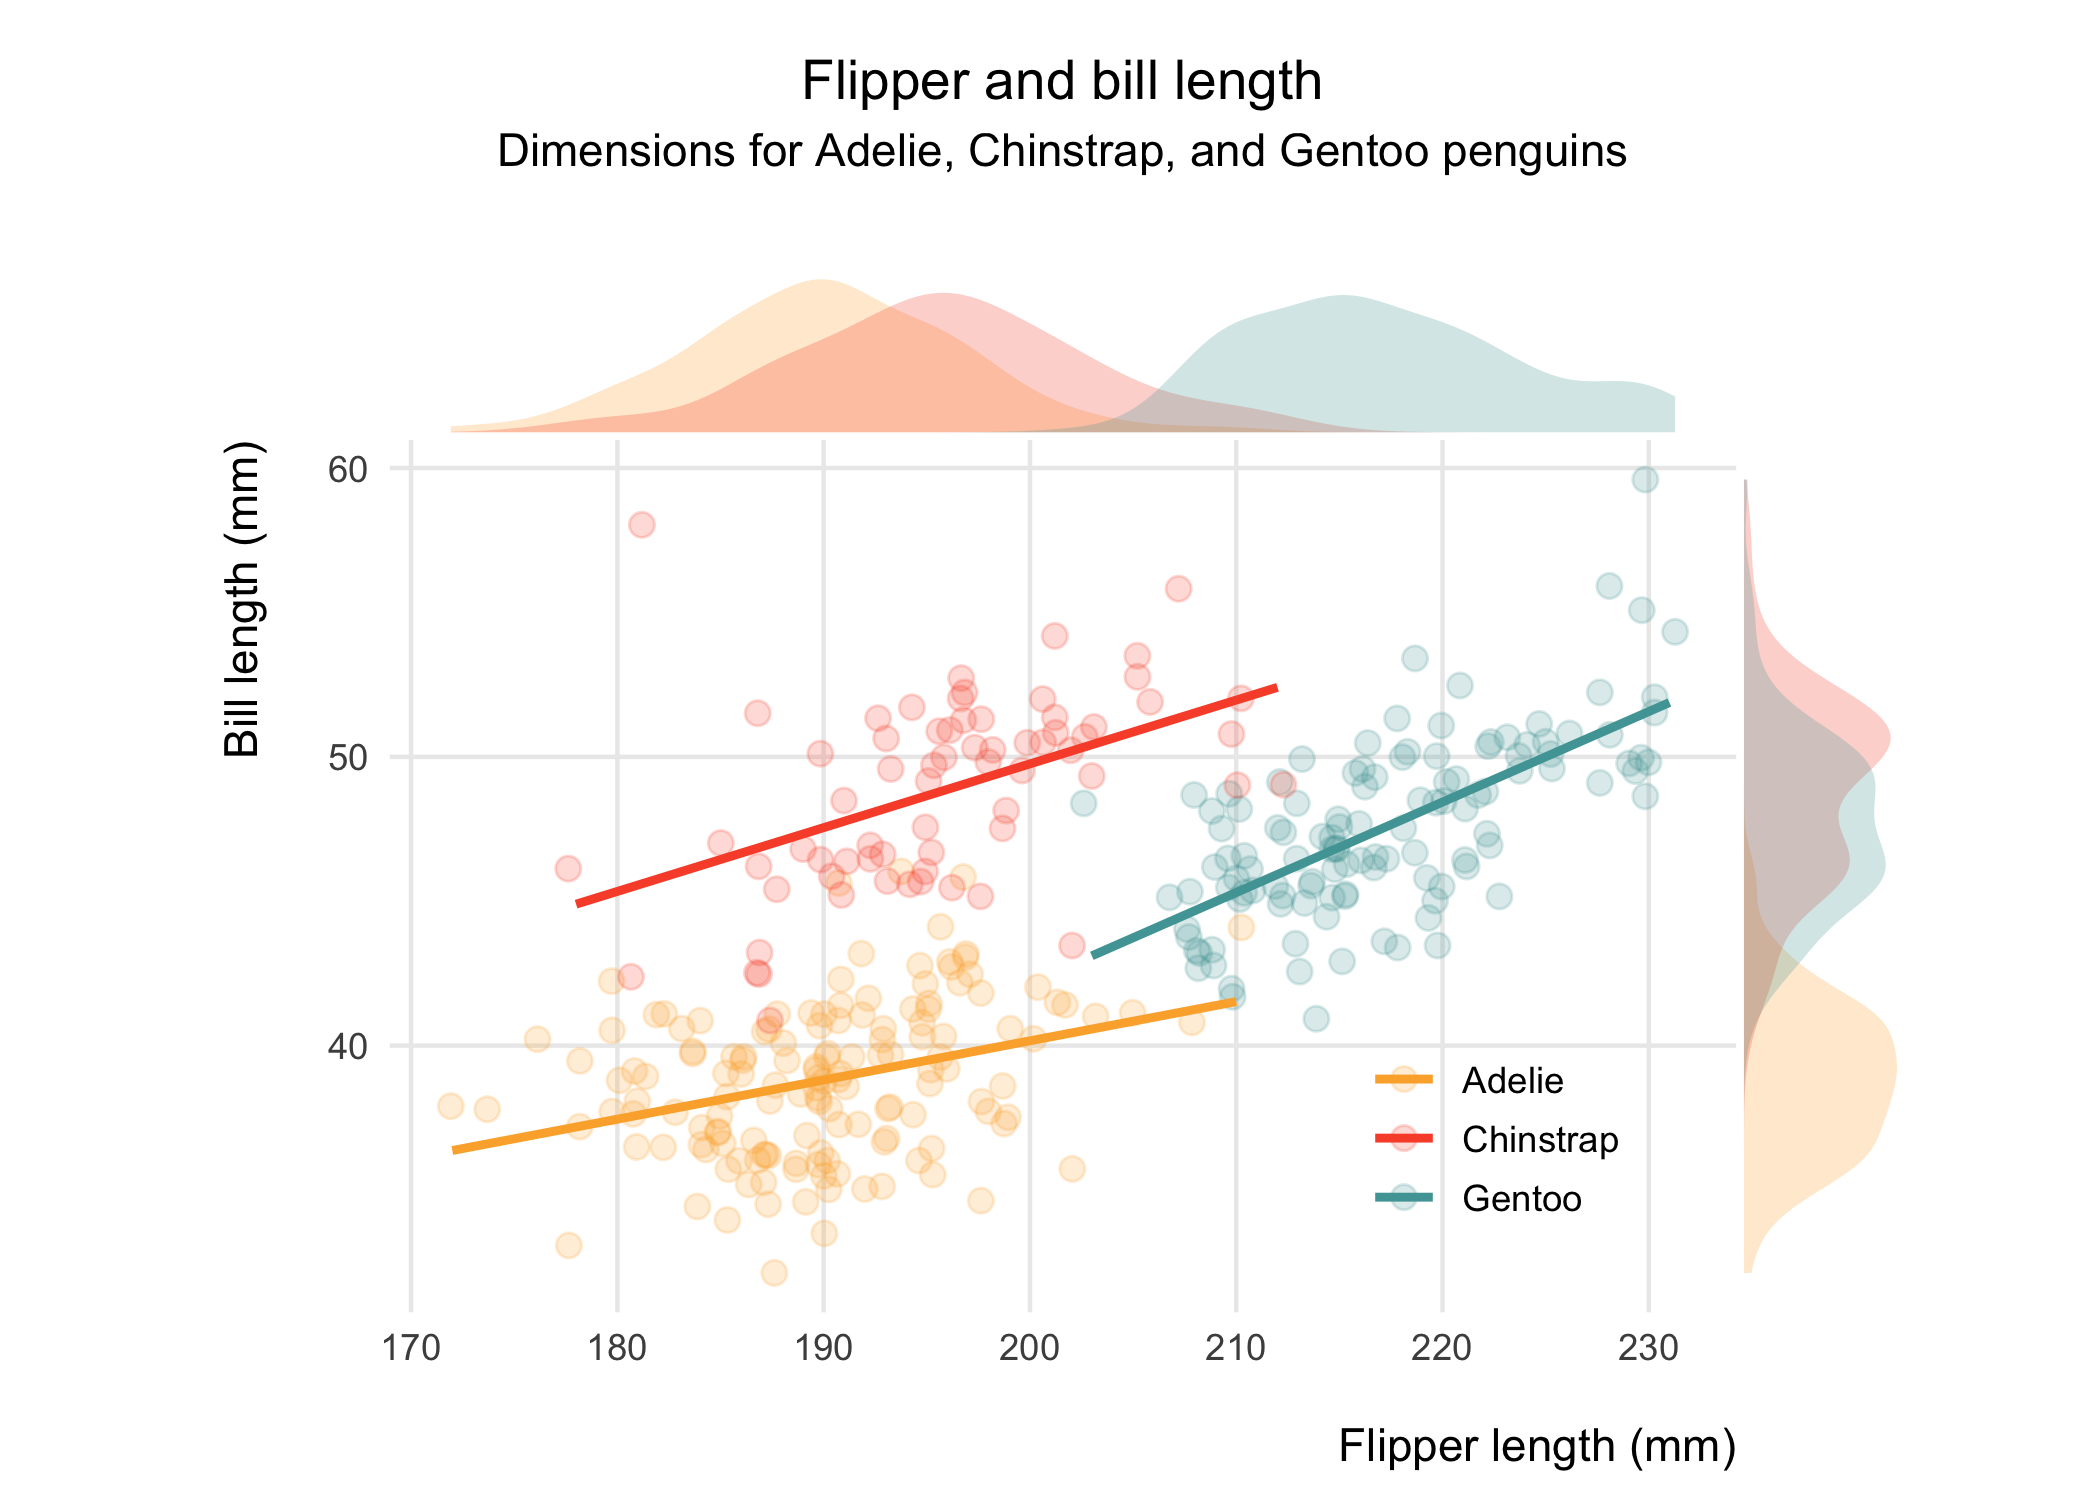
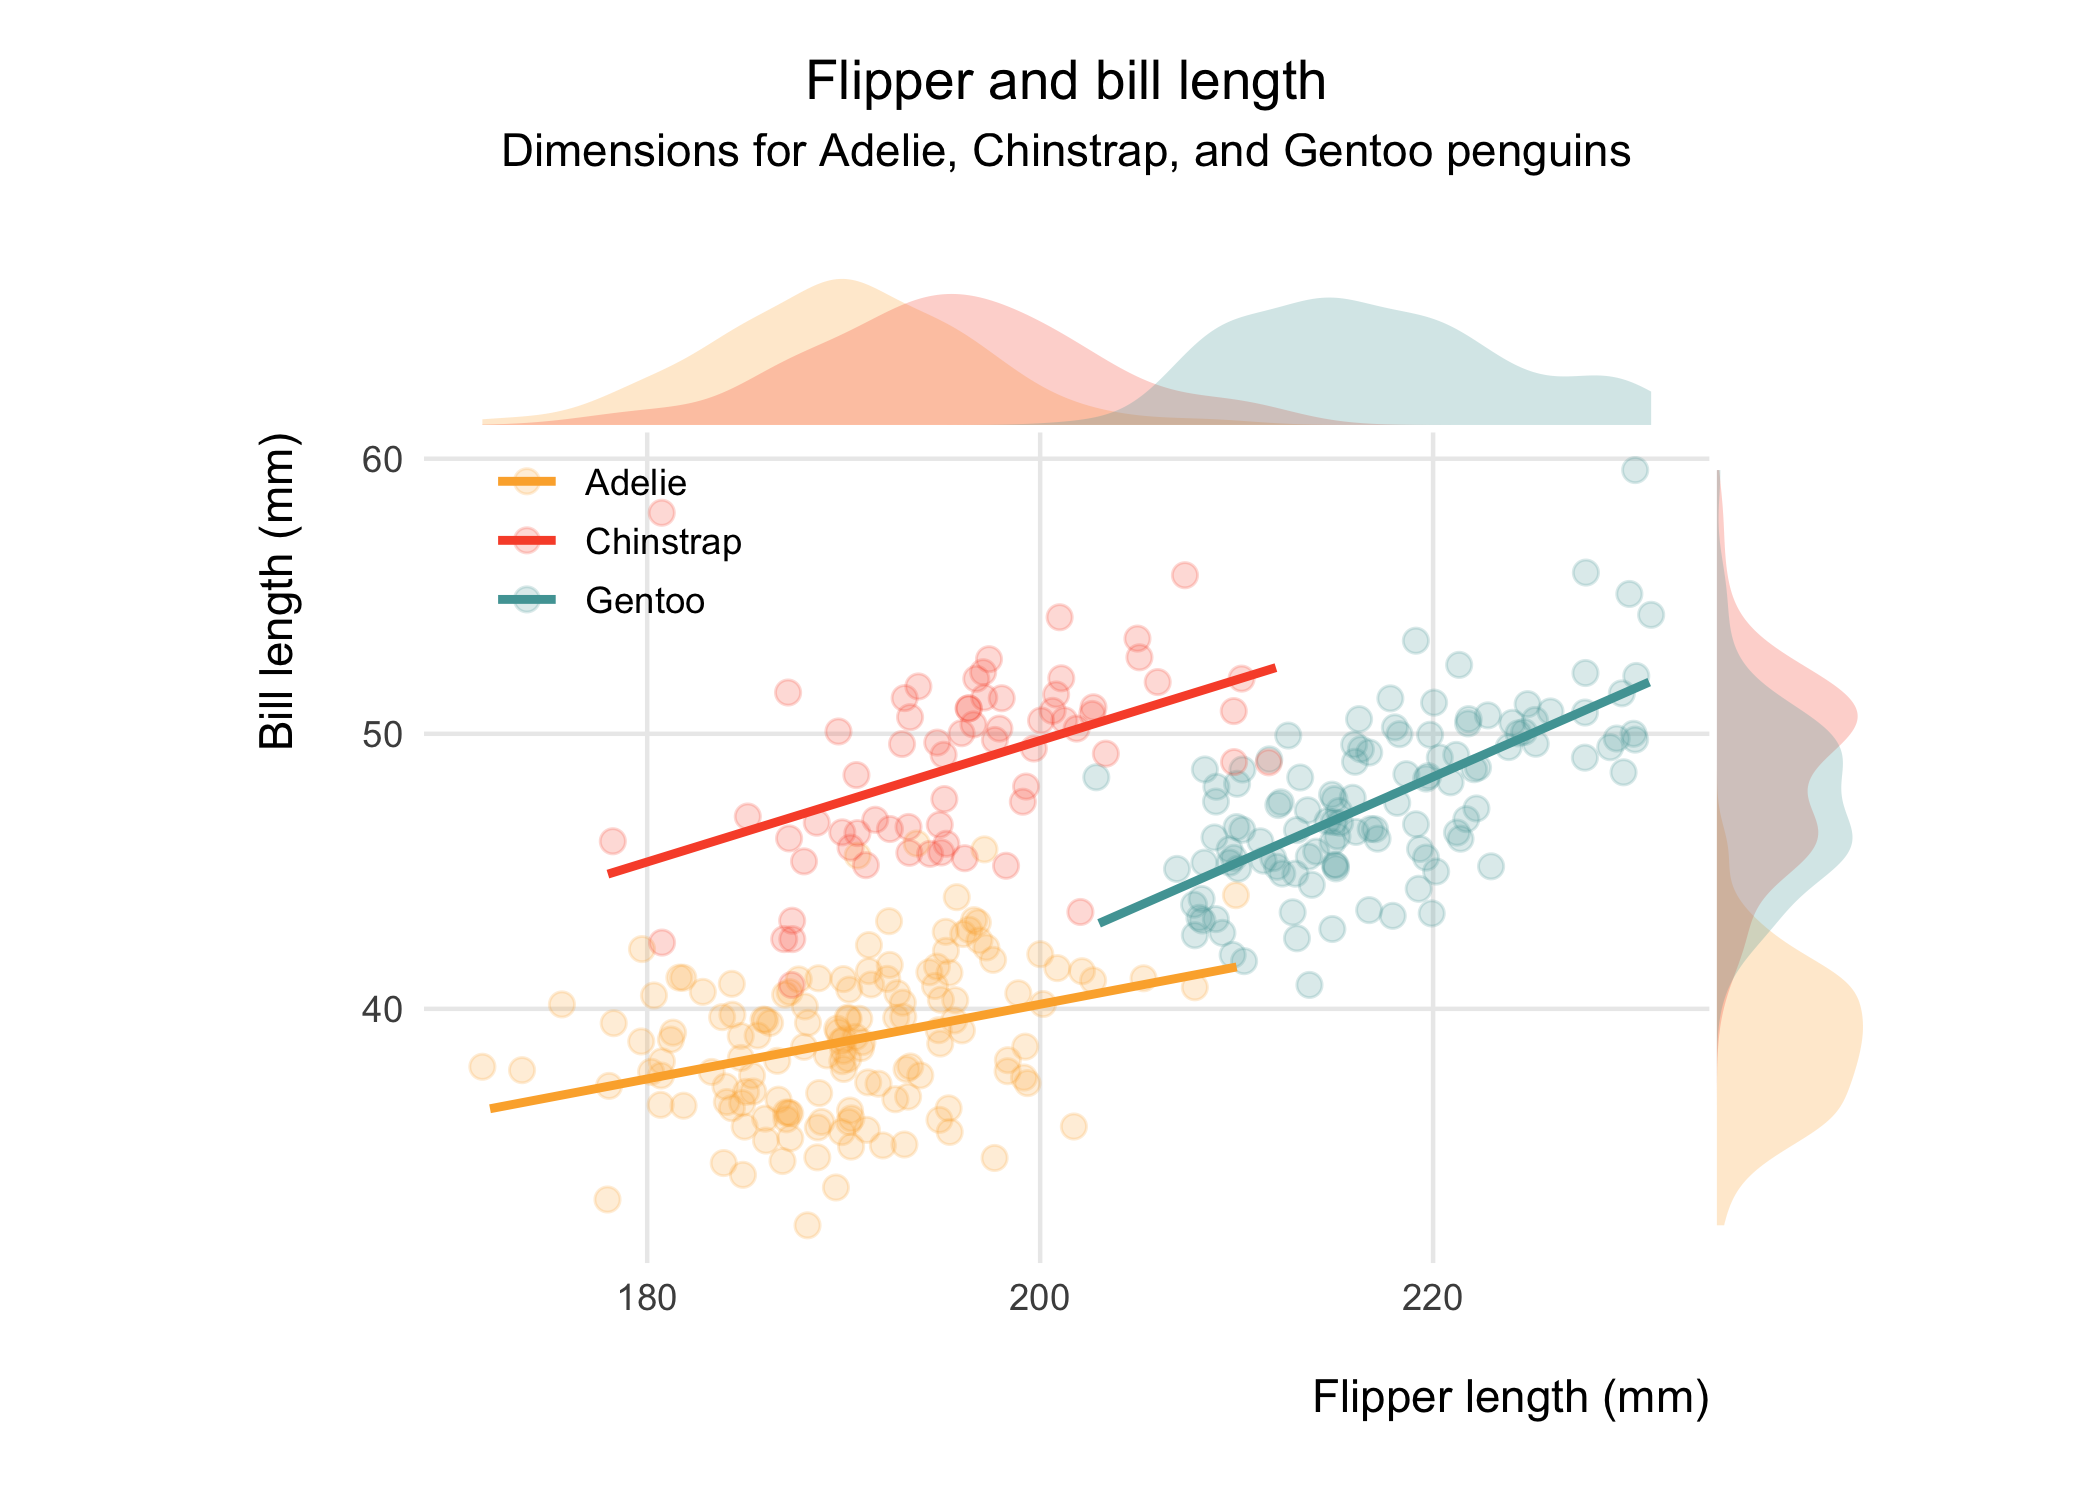
add beeswarm plot

diff --git a/palmer-penguins/palmer-penguins.md b/palmer-penguins/palmer-penguins.md
@@ -26,6 +26,7 @@ Let’s get started.
 ``` r
 # Setup
 library(palmerpenguins) # Data source
+library(ggbeeswarm)     # Beeswarm plots
 library(tidyverse)      # Data wrangling, visualisation
 library(ggExtra)        # Marginal plots
 ```
@@ -39,10 +40,11 @@ the raw data, `penguins`.
 # Dataset
 penguins <- penguins %>%               # Read in the data
   na.omit() %>%                        # Complete-case analysis
-  mutate(species = as_factor(species), # Coerce relevant variables to factors
+  mutate(species = as_factor(species), # Modify variables
          island = as_factor(island),
          sex = as_factor(sex),
-         year = as_factor(year))
+         year = as_factor(year),
+         sex = fct_recode(sex, "Male" = "male", "Female" = "female"))
 ```
 
 ![culmen depth](culmen_depth.png)
@@ -66,7 +68,7 @@ glimpse(penguins)
     $ bill_depth_mm     <dbl> 18.7, 17.4, 18.0, 19.3, 20.6, 17.8, 19.6, 17.6, 21.…
     $ flipper_length_mm <int> 181, 186, 195, 193, 190, 181, 195, 182, 191, 198, 1…
     $ body_mass_g       <int> 3750, 3800, 3250, 3450, 3650, 3625, 4675, 3200, 380…
-    $ sex               <fct> male, female, female, female, male, female, male, f…
+    $ sex               <fct> Male, Female, Female, Female, Male, Female, Male, F…
     $ year              <fct> 2007, 2007, 2007, 2007, 2007, 2007, 2007, 2007, 200…
 
 ## Visualisation
@@ -78,15 +80,16 @@ First off, I am going to reproduce the first plot shown on the
 # Set plots to some formatting
 
 ## Colours and theme of my choosing
-colours <- c("Gentoo" = "#50A3A4", "Chinstrap" = "#F95335", "Adelie" = "#FCAF38")
+colours_penguins <- c("Gentoo" = "#50A3A4", "Chinstrap" = "#F95335", "Adelie" = "#FCAF38")
+colours_sex <- c("Male" = "#50A3A4", "Female" = "#FCAF38")
 theme_set(theme_minimal())
 
-## Further tweaks
+## Further refinement
 theme_update(
   plot.title = element_text(hjust = 0.5),    # Centre-align title
   plot.subtitle = element_text(hjust = 0.5), # Centre-align subtitle
   legend.title = element_blank(),            # Remove legend title
-  legend.position = c(0.82, 0.2),            # Move legend to bottom right
+  legend.position = c(0.15, 0.82),           # Move legend to bottom right
   legend.background = element_blank(),       # Remove legend background
   legend.box.background = element_blank(),   # Remove lengend-box background
   legend.spacing.y = unit(0.01, 'mm'),       # Make legend closer
@@ -98,24 +101,40 @@ theme_update(
 ```
 
 ``` r
-# Plot
-plot_one <- penguins %>% 
+# Scatter plot
+scatter_plot <- penguins %>% 
   ggplot(aes(x = flipper_length_mm, y = bill_length_mm)) +
-  geom_jitter(aes(colour = species), alpha = 0.20, size = 2.5) +
-  geom_smooth(aes(colour = species), method = "lm", formula = y ~ x, se = FALSE) +
-  scale_colour_manual(values = colours) +
-  coord_fixed(ratio = 1.4) +
-  labs(x = "\nFlipper length (mm)",
-       y = "Bill length (mm)\n",
-       title = "\nFlipper and bill length",
-       subtitle = "Dimensions for Adelie, Chinstrap, and Gentoo penguins\n")
+    geom_jitter(aes(colour = species), alpha = 0.20, size = 2.5) +
+    geom_smooth(aes(colour = species), method = "lm", formula = y ~ x, se = FALSE) +
+    scale_colour_manual(values = colours_penguins) +
+    coord_fixed(ratio = 1.4) +
+    labs(x = "\nFlipper length (mm)\n",
+         y = "Bill length (mm)\n",
+         title = "\nFlipper and bill length",
+         subtitle = "for Adelie, Chinstrap, and Gentoo penguins\n")
 
 # Add density plots corresponding to each axis
-ggMarginal(plot_one, type = "density", margins = "both",
+ggMarginal(scatter_plot, type = "density", margins = "both",
            size = 8, groupFill = TRUE, colour = "transparent", alpha = 0.25)
 ```
 
-<img src="palmer-penguins_files/figure-gfm/visulalisation-1.png" style="display: block; margin: auto;" />
+<img src="palmer-penguins_files/figure-gfm/visualisation-1.png" style="display: block; margin: auto;" />
+
+``` r
+# Beeswarm plot
+penguins %>% 
+  ggplot(aes(x = sex, y = flipper_length_mm)) +
+    geom_beeswarm(aes(colour = species), size = 1.8, dodge.width = 0.7, alpha = 0.3) +
+    scale_colour_manual(values = colours_penguins) +
+    coord_fixed(ratio = 0.03) +
+    theme(panel.grid.major.x = element_blank()) +
+    labs(x = "Sex\n",
+         y = "Flipper length (mm)\n",
+         title = "\nFlipper length by sex and species",
+         subtitle = "for Adelie, Chinstrap, and Gentoo penguins\n")
+```
+
+<img src="palmer-penguins_files/figure-gfm/visualisation-2.png" style="display: block; margin: auto;" />
 
 ## Appendix
 
@@ -141,25 +160,25 @@ attached base packages:
 other attached packages:
  [1] ggExtra_0.9          forcats_0.5.0        stringr_1.4.0       
  [4] dplyr_1.0.0          purrr_0.3.4          readr_1.3.1         
- [7] tidyr_1.1.0          tibble_3.0.3         ggplot2_3.3.2       
-[10] tidyverse_1.3.0      palmerpenguins_0.1.0
+ [7] tidyr_1.1.0          tibble_3.0.3         tidyverse_1.3.0     
+[10] ggbeeswarm_0.6.0     ggplot2_3.3.2        palmerpenguins_0.1.0
 
 loaded via a namespace (and not attached):
- [1] Rcpp_1.0.5       lubridate_1.7.9  lattice_0.20-41  assertthat_0.2.1
- [5] digest_0.6.25    utf8_1.1.4       mime_0.9         R6_2.4.1        
+ [1] Rcpp_1.0.5       lubridate_1.7.9  lattice_0.20-41  utf8_1.1.4      
+ [5] assertthat_0.2.1 digest_0.6.25    mime_0.9         R6_2.4.1        
  [9] cellranger_1.1.0 backports_1.1.8  reprex_0.3.0     evaluate_0.14   
 [13] httr_1.4.1       pillar_1.4.6     rlang_0.4.7      readxl_1.3.1    
 [17] rstudioapi_0.11  miniUI_0.1.1.1   blob_1.2.1       Matrix_1.2-18   
 [21] rmarkdown_2.3    labeling_0.3     splines_4.0.1    munsell_0.5.0   
-[25] shiny_1.5.0      broom_0.5.6      compiler_4.0.1   httpuv_1.5.4    
-[29] modelr_0.1.8     xfun_0.15        pkgconfig_2.0.3  mgcv_1.8-31     
-[33] htmltools_0.5.0  tidyselect_1.1.0 fansi_0.4.1      crayon_1.3.4    
-[37] dbplyr_1.4.4     withr_2.2.0      later_1.1.0.1    grid_4.0.1      
-[41] nlme_3.1-148     jsonlite_1.6.1   xtable_1.8-4     gtable_0.3.0    
-[45] lifecycle_0.2.0  DBI_1.1.0        magrittr_1.5     scales_1.1.1    
-[49] cli_2.0.2        stringi_1.4.6    farver_2.0.3     fs_1.4.1        
-[53] promises_1.1.1   xml2_1.3.2       ellipsis_0.3.1   generics_0.0.2  
-[57] vctrs_0.3.1      tools_4.0.1      glue_1.4.1       hms_0.5.3       
-[61] fastmap_1.0.1    yaml_2.2.1       colorspace_1.4-1 rvest_0.3.5     
-[65] knitr_1.28       haven_2.3.1     
+[25] shiny_1.5.0      broom_0.5.6      compiler_4.0.1   vipor_0.4.5     
+[29] httpuv_1.5.4     modelr_0.1.8     xfun_0.15        pkgconfig_2.0.3 
+[33] mgcv_1.8-31      htmltools_0.5.0  tidyselect_1.1.0 fansi_0.4.1     
+[37] crayon_1.3.4     dbplyr_1.4.4     withr_2.2.0      later_1.1.0.1   
+[41] grid_4.0.1       xtable_1.8-4     nlme_3.1-148     jsonlite_1.6.1  
+[45] gtable_0.3.0     lifecycle_0.2.0  DBI_1.1.0        magrittr_1.5    
+[49] scales_1.1.1     cli_2.0.2        stringi_1.4.6    farver_2.0.3    
+[53] fs_1.4.1         promises_1.1.1   xml2_1.3.2       ellipsis_0.3.1  
+[57] generics_0.0.2   vctrs_0.3.1      tools_4.0.1      glue_1.4.1      
+[61] beeswarm_0.2.3   hms_0.5.3        fastmap_1.0.1    yaml_2.2.1      
+[65] colorspace_1.4-1 rvest_0.3.5      knitr_1.28       haven_2.3.1     
 ```
